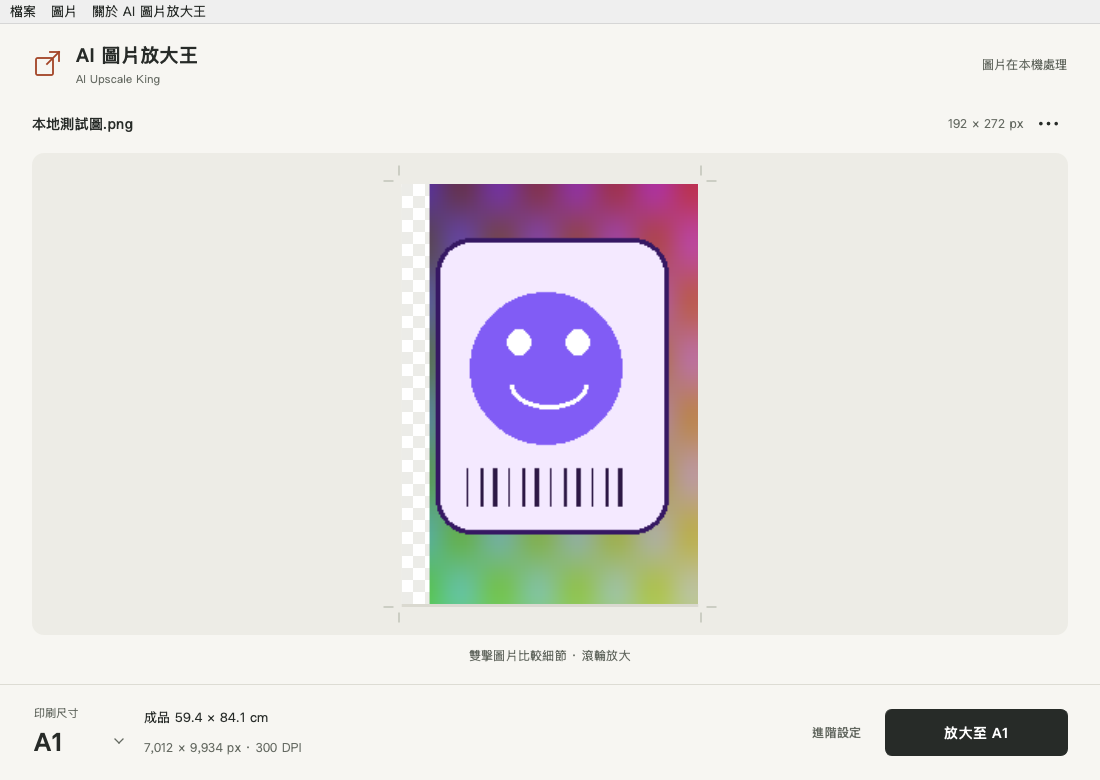
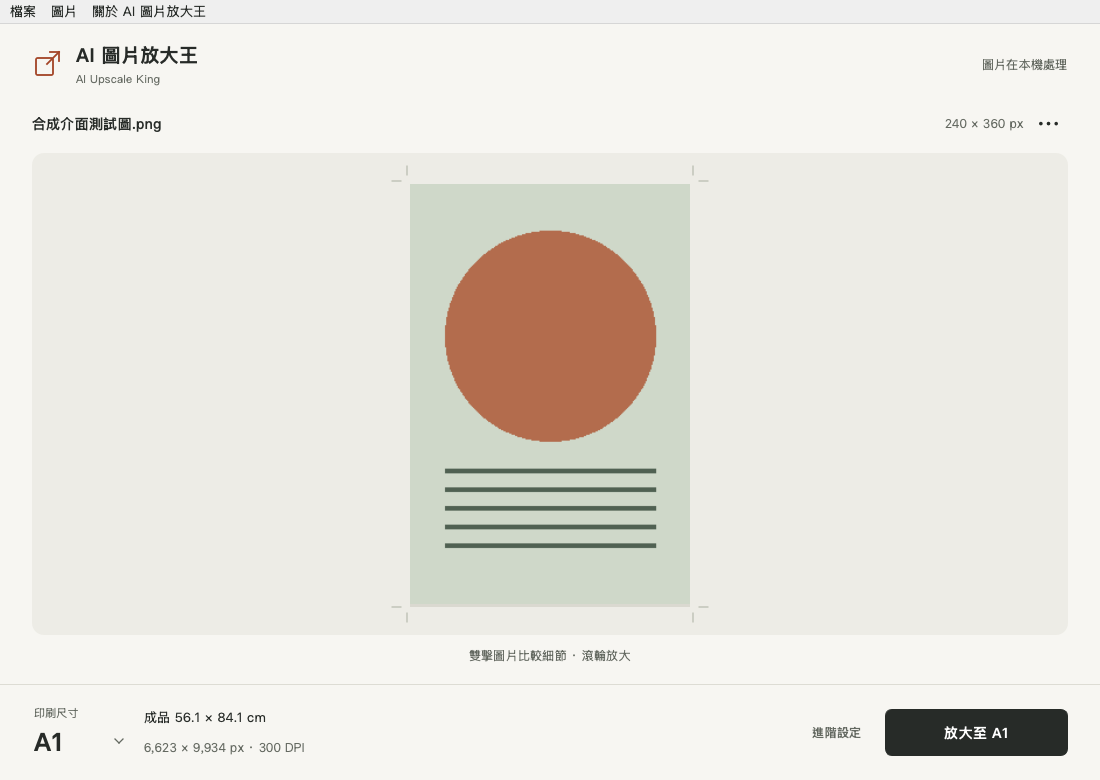
Make design review fixtures self-contained for clean native builds

diff --git a/scripts/design_review.py b/scripts/design_review.py
@@ -5,7 +5,7 @@ import sys
 from pathlib import Path
 os.environ.setdefault('QT_QPA_PLATFORM', 'offscreen')
 sys.path.insert(0, str(Path(__file__).resolve().parents[1]))
-from PIL import Image
+from PIL import Image, ImageDraw
 from PySide6.QtWidgets import QApplication, QPushButton, QComboBox
 from PySide6.QtCore import QPoint
 from PySide6.QtTest import QTest
@@ -22,7 +22,12 @@ def visible(cls):
     return [item for item in w.findChildren(cls) if item.isVisibleTo(w) and item.window() == w]
 capture('01_空白狀態')
 assert len(visible(QComboBox)) == 1 and len([b for b in visible(QPushButton) if b.objectName() == 'primary']) == 1
-source = ROOT / 'delivery/驗證記錄/本地測試圖.png'
+source = QA / '合成介面測試圖.png'
+fixture = Image.new('RGB', (240, 360), '#CFD8C9')
+draw = ImageDraw.Draw(fixture)
+draw.ellipse((30, 40, 210, 220), fill='#B36C4D')
+for y in range(245, 325, 16): draw.line((30, y, 210, y), fill='#506152', width=4)
+fixture.save(source)
 w.add_files([source]); capture('02_單張圖片')
 assert len(visible(QComboBox)) == 1 and len(visible(QPushButton)) <= 3
 assert w.options().ppi == 300 and w.options().pixels == (7016, 9934)
